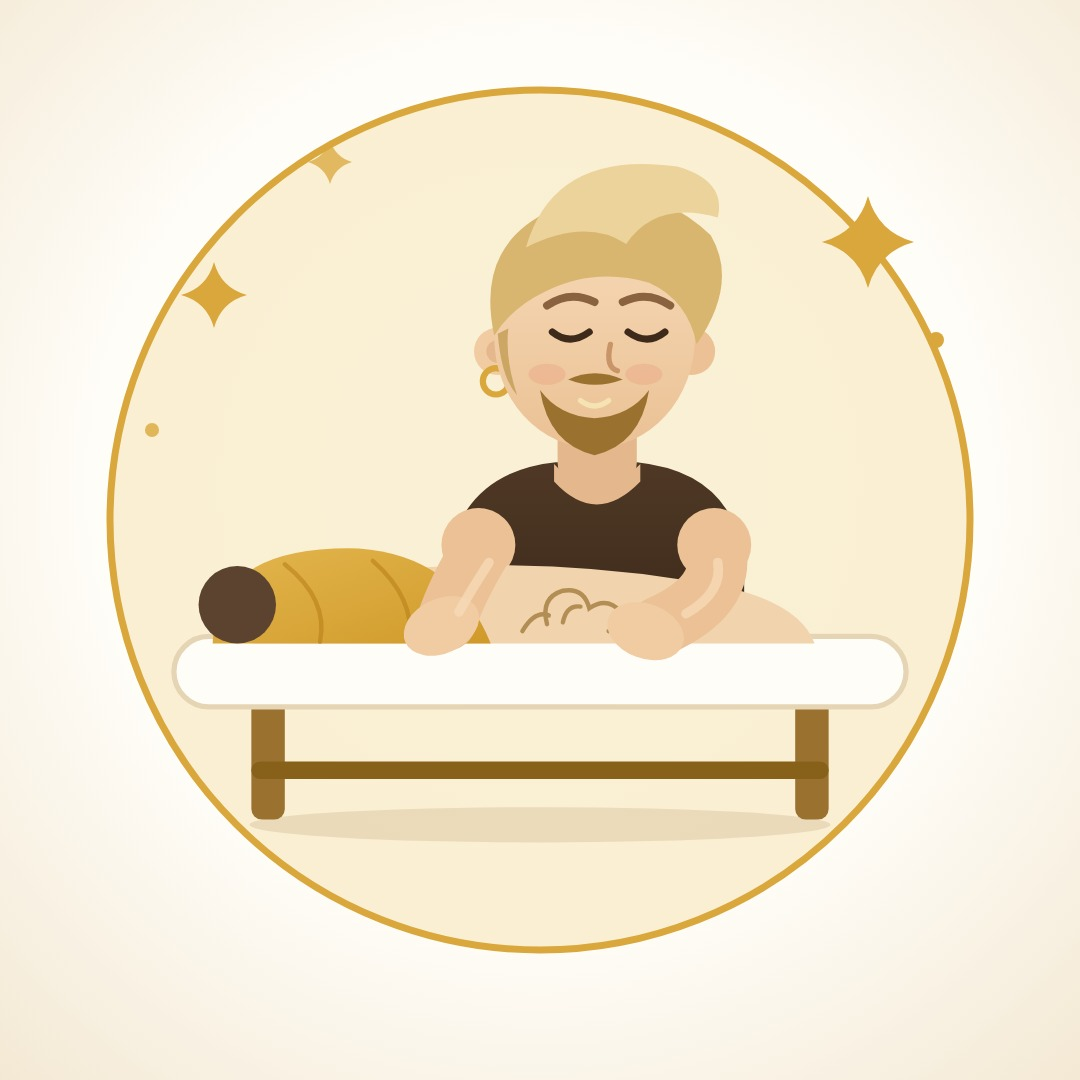
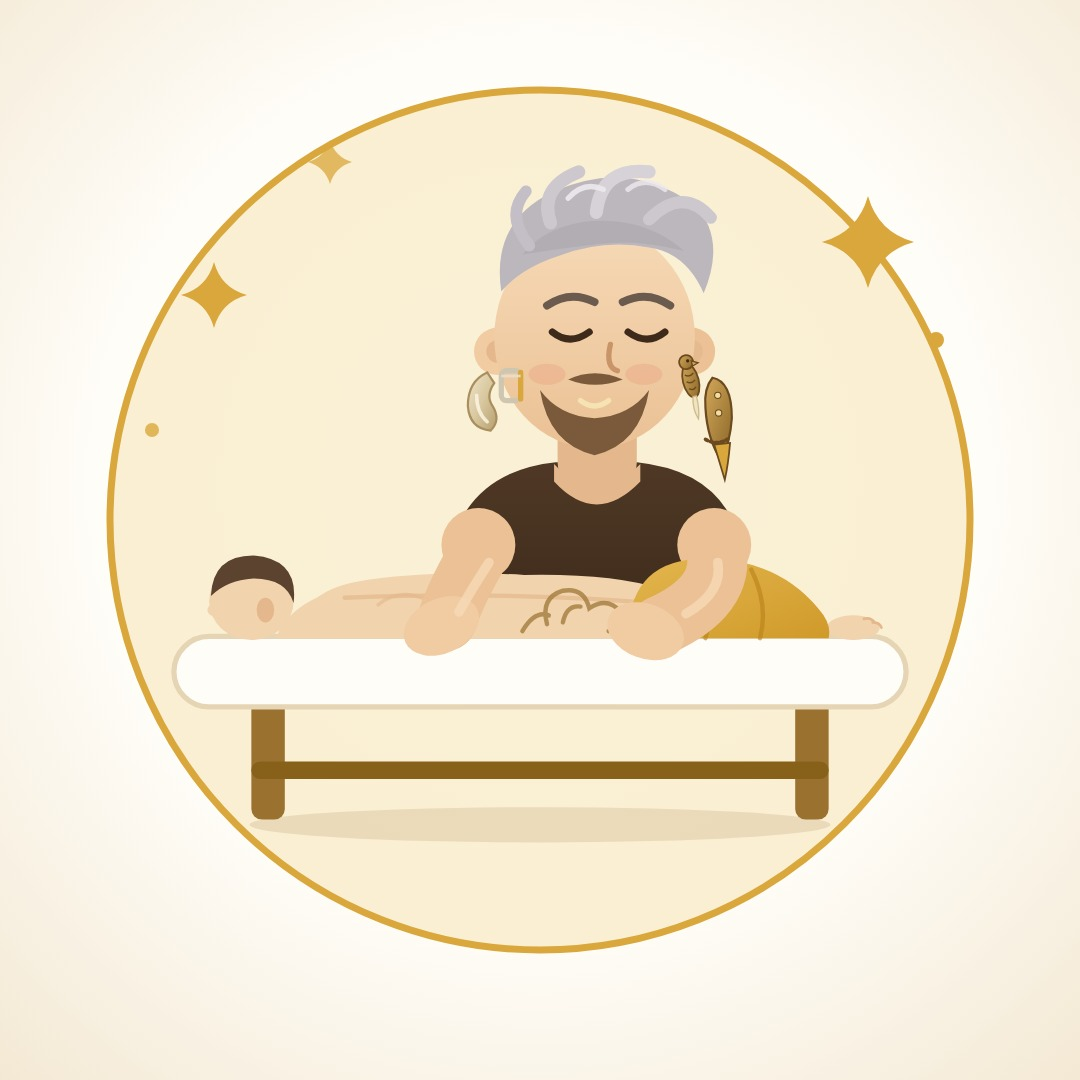
Illustration émoji : boucles d'oreilles détaillées, cheveux gris courts sur les côtés, client plus réaliste
Claude-Session: https://claude.ai/code/session_01FhKW6d7NffjTyYvYf6zG3G

diff --git a/graphisme/sources/66-emoji-masseur.html b/graphisme/sources/66-emoji-masseur.html
@@ -42,31 +42,29 @@ body{width:var(--w);height:var(--h);overflow:hidden;background:var(--creme);colo
   <!-- Palette du site : crème #fffdf8, sable #f3e8d3, or #d9a73b, or clair #f6e3b4, brun #3d2a1b, brun logo #9a712f -->
   <defs>
     <radialGradient id="fond" cx="50%" cy="45%" r="75%">
-      <stop offset="0" stop-color="#ffffff"/>
-      <stop offset=".55" stop-color="#fffdf8"/>
-      <stop offset="1" stop-color="#f3e8d3"/>
+      <stop offset="0" stop-color="#ffffff"/><stop offset=".55" stop-color="#fffdf8"/><stop offset="1" stop-color="#f3e8d3"/>
     </radialGradient>
     <linearGradient id="peau" x1="0" y1="0" x2="0" y2="1">
-      <stop offset="0" stop-color="#f6d9b6"/>
-      <stop offset="1" stop-color="#ebc195"/>
+      <stop offset="0" stop-color="#f6d9b6"/><stop offset="1" stop-color="#ebc195"/>
     </linearGradient>
     <linearGradient id="serviette" x1="0" y1="0" x2="1" y2="1">
-      <stop offset="0" stop-color="#e3b64e"/>
-      <stop offset="1" stop-color="#d09a2a"/>
+      <stop offset="0" stop-color="#e3b64e"/><stop offset="1" stop-color="#d09a2a"/>
     </linearGradient>
     <linearGradient id="debardeur" x1="0" y1="0" x2="0" y2="1">
-      <stop offset="0" stop-color="#4f3825"/>
-      <stop offset="1" stop-color="#3d2a1b"/>
+      <stop offset="0" stop-color="#4f3825"/><stop offset="1" stop-color="#3d2a1b"/>
+    </linearGradient>
+    <linearGradient id="champagne" x1="0" y1="0" x2="1" y2="1">
+      <stop offset="0" stop-color="#f1e6cc"/><stop offset=".5" stop-color="#d9c8a0"/><stop offset="1" stop-color="#b79f6f"/>
+    </linearGradient>
+    <linearGradient id="bronze" x1="0" y1="0" x2="1" y2="1">
+      <stop offset="0" stop-color="#d2a85a"/><stop offset="1" stop-color="#8a6527"/>
     </linearGradient>
   </defs>
 
   <rect width="1080" height="1080" fill="url(#fond)"/>
-
-  <!-- halo doré, comme les couvertures à la une -->
   <circle cx="540" cy="520" r="430" fill="#f6e3b4" opacity=".55"/>
   <circle cx="540" cy="520" r="430" fill="none" stroke="#d9a73b" stroke-width="7"/>
 
-  <!-- étincelles dorées -->
   <g fill="#d9a73b">
     <path d="M868 196 q10 36 46 46 q-36 10 -46 46 q-10 -36 -46 -46 q36 -10 46 -46z"/>
     <path d="M214 262 q7 26 33 33 q-26 7 -33 33 q-7 -26 -33 -33 q26 -7 33 -33z"/>
@@ -74,8 +72,7 @@ body{width:var(--w);height:var(--h);overflow:hidden;background:var(--creme);colo
     <circle cx="936" cy="340" r="8"/><circle cx="152" cy="430" r="7" opacity=".8"/>
   </g>
 
-  <!-- ombre au sol -->
-  <g transform="translate(540 552) scale(.88) translate(-540 -552)">
+<g transform="translate(540 552) scale(.88) translate(-540 -552)">
   <ellipse cx="540" cy="862" rx="330" ry="20" fill="#9a712f" opacity=".16"/>
 
   <!-- MASSEUR (derrière la table) -->
@@ -85,32 +82,64 @@ body{width:var(--w);height:var(--h);overflow:hidden;background:var(--creme);colo
     <circle cx="738" cy="544" r="42" fill="#ebc195"/>
     <rect x="560" y="392" width="90" height="90" rx="32" fill="#e4b88c"/>
     <path d="M556 452 Q604 504 654 452 L654 472 Q604 524 556 472Z" fill="#e4b88c"/>
-    <!-- oreilles + boucle dorée -->
-    <circle cx="492" cy="324" r="27" fill="#f1cca3"/>
-    <circle cx="492" cy="324" r="13" fill="#e4b88c"/>
-    <circle cx="712" cy="324" r="27" fill="#ebc195"/>
-    <circle cx="490" cy="358" r="15" fill="none" stroke="#d9a73b" stroke-width="7"/>
+    <!-- oreilles -->
+    <circle cx="492" cy="324" r="27" fill="#f1cca3"/><circle cx="492" cy="324" r="13" fill="#e4b88c"/>
+    <circle cx="712" cy="324" r="27" fill="#ebc195"/><circle cx="712" cy="324" r="13" fill="#e4b88c" opacity=".8"/>
     <!-- visage -->
     <ellipse cx="602" cy="308" rx="114" ry="126" fill="url(#peau)"/>
-    <!-- cheveux blond cendré, mèche relevée -->
-    <path d="M488 306 Q466 204 552 164 Q654 116 734 192 Q766 246 718 316 Q708 266 664 246 Q602 228 546 256 Q508 274 488 306Z" fill="#d9b66f"/>
-    <path d="M524 206 Q556 94 696 114 Q752 130 742 172 Q672 152 638 202 Q592 172 524 206Z" fill="#ecd39b"/>
-    <path d="M492 304 Q496 354 514 374 Q500 332 504 298Z" fill="#c29c54" opacity=".8"/>
+
+    <!-- cheveux gris argenté : côtés très courts, dessus plus long, balayé et texturé -->
+    <path d="M496 256 Q484 176 556 142 Q642 104 716 158 Q752 196 726 258 Q706 212 664 206 Q612 196 560 216 Q518 230 496 256Z" fill="#bcb7bd"/>
+    <path d="M520 214 Q548 180 600 176 Q660 172 704 210 Q650 196 606 202 Q556 208 520 214Z" fill="#a9a4ab" opacity=".55"/>
+    <g fill="none" stroke-linecap="round">
+      <path d="M552 178 Q538 138 584 120" stroke="#cdc8ce" stroke-width="15"/>
+      <path d="M604 166 Q610 114 664 120" stroke="#d6d2d8" stroke-width="15"/>
+      <path d="M664 174 Q702 136 734 172" stroke="#cdc8ce" stroke-width="14"/>
+      <path d="M528 204 Q500 170 524 142" stroke="#c4bfc6" stroke-width="13"/>
+      <path d="M572 150 Q590 130 612 140" stroke="#ece9ee" stroke-width="6" opacity=".9"/>
+      <path d="M640 140 Q660 124 682 140" stroke="#ece9ee" stroke-width="6" opacity=".8"/>
+    </g>
+
     <!-- sourcils -->
-    <path d="M548 272 Q574 254 602 268" stroke="#8a6240" stroke-width="9" fill="none" stroke-linecap="round"/>
-    <path d="M634 268 Q662 254 688 272" stroke="#8a6240" stroke-width="9" fill="none" stroke-linecap="round"/>
-    <!-- yeux baissés, concentré et serein -->
+    <path d="M548 272 Q574 254 602 268" stroke="#6b5a4e" stroke-width="9" fill="none" stroke-linecap="round"/>
+    <path d="M634 268 Q662 254 688 272" stroke="#6b5a4e" stroke-width="9" fill="none" stroke-linecap="round"/>
+    <!-- yeux baissés -->
     <path d="M554 302 Q574 318 596 302" stroke="#3d2a1b" stroke-width="8" fill="none" stroke-linecap="round"/>
     <path d="M640 302 Q662 318 682 302" stroke="#3d2a1b" stroke-width="8" fill="none" stroke-linecap="round"/>
-    <!-- joues -->
     <ellipse cx="548" cy="350" rx="21" ry="12" fill="#e9a283" opacity=".4"/>
     <ellipse cx="658" cy="350" rx="21" ry="12" fill="#e9a283" opacity=".4"/>
-    <!-- nez -->
     <path d="M620 316 Q614 342 628 346" stroke="#c99468" stroke-width="6" fill="none" stroke-linecap="round"/>
     <!-- barbe courte -->
-    <path d="M540 368 Q550 430 602 442 Q654 430 664 368 Q642 398 602 400 Q562 398 540 368Z" fill="#9a712f"/>
-    <path d="M572 356 Q602 342 634 356 Q602 368 572 356Z" fill="#9a712f"/>
+    <path d="M540 368 Q550 430 602 442 Q654 430 664 368 Q642 398 602 400 Q562 398 540 368Z" fill="#7a5a3a"/>
+    <path d="M572 356 Q602 342 634 356 Q602 368 572 356Z" fill="#7a5a3a"/>
     <path d="M586 380 Q602 392 618 380" stroke="#f6e3b4" stroke-width="6" fill="none" stroke-linecap="round"/>
+
+    <!-- BOUCLES D'OREILLES — oreille gauche : gros anneau champagne + petit anneau carré -->
+    <g transform="translate(-4 2)">
+      <rect x="500" y="344" width="22" height="34" rx="6" fill="none" stroke="#cfc6b2" stroke-width="6"/>
+      <path d="M522 346 L522 376" stroke="#d9a73b" stroke-width="6" stroke-linecap="round"/>
+      <path d="M500 350 L522 350" stroke="#e8e0cf" stroke-width="3" opacity=".9"/>
+      <path d="M484 346 Q462 356 462 384 Q464 410 488 412 Q500 400 490 384 Q482 372 492 358Z" fill="url(#champagne)" stroke="#a98f5f" stroke-width="2.5"/>
+      <path d="M472 372 Q472 392 484 402" stroke="#fbf5e3" stroke-width="4" fill="none" stroke-linecap="round" opacity=".85"/>
+    </g>
+    <!-- oreille droite : perroquet en bronze + griffe à pointes -->
+    <g transform="translate(14 4)">
+      <!-- perroquet -->
+      <g transform="translate(694 340) rotate(-14)">
+        <ellipse cx="0" cy="14" rx="9" ry="19" fill="url(#bronze)" stroke="#6b4a1f" stroke-width="2"/>
+        <circle cx="0" cy="-8" r="8" fill="url(#bronze)" stroke="#6b4a1f" stroke-width="2"/>
+        <circle cx="2" cy="-9" r="1.8" fill="#3d2a1b"/>
+        <path d="M6 -8 L13 -4 L6 -2Z" fill="#d2a85a" stroke="#6b4a1f" stroke-width="1.5"/>
+        <path d="M-5 6 Q0 10 5 6 M-5 14 Q0 18 5 14 M-4 22 Q0 26 4 22" stroke="#6b4a1f" stroke-width="1.6" fill="none"/>
+        <path d="M-2 32 Q-6 46 -2 58 Q2 48 2 32Z" fill="#efe3c2" stroke="#cdbb8e" stroke-width="1.5"/>
+      </g>
+      <!-- griffe -->
+      <path d="M722 350 Q744 354 744 396 Q742 424 732 444 Q716 420 714 384 Q712 362 722 350Z" fill="url(#bronze)" stroke="#6b4a1f" stroke-width="2.5"/>
+      <circle cx="728" cy="370" r="3.6" fill="#f3dca0" stroke="#6b4a1f" stroke-width="1.2"/>
+      <circle cx="729" cy="390" r="3.6" fill="#f3dca0" stroke="#6b4a1f" stroke-width="1.2"/>
+      <path d="M714 420 Q728 428 742 418" stroke="#6b4a1f" stroke-width="4" fill="none" stroke-linecap="round" stroke-dasharray="3 3"/>
+      <path d="M724 426 Q730 446 736 466 Q740 448 742 424Z" fill="#d9a73b" stroke="#6b4a1f" stroke-width="2"/>
+    </g>
   </g>
 
   <!-- pieds de table -->
@@ -121,18 +150,33 @@ body{width:var(--w);height:var(--h);overflow:hidden;background:var(--creme);colo
   <!-- matelas -->
   <rect x="124" y="648" width="832" height="80" rx="40" fill="#fffdf8" stroke="#e6d5b5" stroke-width="6"/>
 
-  <!-- CLIENT allongé -->
+  <!-- CLIENT allongé sur le ventre, plus réaliste -->
   <g>
-    <path d="M214 656 Q232 576 372 572 Q540 558 706 584 Q832 600 852 656 Z" fill="#f1d3ae"/>
+    <!-- pieds -->
+    <ellipse cx="896" cy="638" rx="30" ry="14" fill="#f1d3ae"/>
+    <path d="M918 632 q8 0 10 6 M908 628 q8 -2 12 4" stroke="#e4b88c" stroke-width="3" fill="none" stroke-linecap="round"/>
+    <!-- dos et épaules -->
+    <path d="M262 650 Q268 598 330 586 Q412 572 522 578 Q622 576 678 594 Q724 608 728 650 Z" fill="#f1d3ae"/>
+    <!-- nuque -->
+    <path d="M244 640 Q262 612 296 600 L304 650 L240 650Z" fill="#f1d3ae"/>
+    <!-- tête, cheveux bruns, oreille -->
+    <ellipse cx="212" cy="608" rx="48" ry="44" fill="#f1d3ae"/>
+    <path d="M166 602 Q168 556 214 556 Q266 560 260 610 Q252 582 214 582 Q184 584 166 602Z" fill="#5c4330"/>
+    <ellipse cx="228" cy="618" rx="10" ry="14" fill="#e4b88c"/>
+    <ellipse cx="170" cy="618" rx="8" ry="7" fill="#f1d3ae"/>
+    <!-- relief du dos : colonne et omoplate -->
+    <path d="M318 604 Q520 596 690 612" stroke="#e4b88c" stroke-width="5" fill="none" stroke-linecap="round" opacity=".7"/>
+    <path d="M356 612 Q380 592 410 606" stroke="#e4b88c" stroke-width="4" fill="none" stroke-linecap="round" opacity=".6"/>
+    <!-- tatouage floral -->
     <g stroke="#9a712f" stroke-width="5" fill="none" stroke-linecap="round" opacity=".7">
       <path d="M548 634 Q540 604 566 596 Q590 592 596 616 Q616 602 632 620 Q640 638 618 642"/>
       <path d="M566 632 Q570 612 586 614"/>
       <path d="M520 642 Q534 618 550 624"/>
     </g>
-    <path d="M168 656 Q170 544 334 548 Q444 556 484 656 Z" fill="url(#serviette)"/>
-    <path d="M250 566 Q300 606 290 654" stroke="#b9801a" stroke-width="5" fill="none" stroke-linecap="round" opacity=".6"/>
-    <path d="M350 562 Q398 604 392 654" stroke="#b9801a" stroke-width="5" fill="none" stroke-linecap="round" opacity=".6"/>
-    <circle cx="196" cy="612" r="44" fill="#5c4330"/>
+    <!-- serviette moutarde sur les hanches et les jambes -->
+    <path d="M640 650 Q640 566 716 560 Q806 556 856 616 Q872 634 868 650 Z" fill="url(#serviette)"/>
+    <path d="M716 568 Q740 610 728 650" stroke="#b9801a" stroke-width="5" fill="none" stroke-linecap="round" opacity=".6"/>
+    <path d="M780 572 Q800 612 790 650" stroke="#b9801a" stroke-width="5" fill="none" stroke-linecap="round" opacity=".6"/>
   </g>
 
   <!-- BRAS du masseur : les mains posent sur le dos -->

diff --git a/graphisme/sources/67-emoji-masseur-logo.html b/graphisme/sources/67-emoji-masseur-logo.html
@@ -45,31 +45,29 @@ body{width:var(--w);height:var(--h);overflow:hidden;background:var(--creme);colo
   <!-- Palette du site : crème #fffdf8, sable #f3e8d3, or #d9a73b, or clair #f6e3b4, brun #3d2a1b, brun logo #9a712f -->
   <defs>
     <radialGradient id="fond" cx="50%" cy="45%" r="75%">
-      <stop offset="0" stop-color="#ffffff"/>
-      <stop offset=".55" stop-color="#fffdf8"/>
-      <stop offset="1" stop-color="#f3e8d3"/>
+      <stop offset="0" stop-color="#ffffff"/><stop offset=".55" stop-color="#fffdf8"/><stop offset="1" stop-color="#f3e8d3"/>
     </radialGradient>
     <linearGradient id="peau" x1="0" y1="0" x2="0" y2="1">
-      <stop offset="0" stop-color="#f6d9b6"/>
-      <stop offset="1" stop-color="#ebc195"/>
+      <stop offset="0" stop-color="#f6d9b6"/><stop offset="1" stop-color="#ebc195"/>
     </linearGradient>
     <linearGradient id="serviette" x1="0" y1="0" x2="1" y2="1">
-      <stop offset="0" stop-color="#e3b64e"/>
-      <stop offset="1" stop-color="#d09a2a"/>
+      <stop offset="0" stop-color="#e3b64e"/><stop offset="1" stop-color="#d09a2a"/>
     </linearGradient>
     <linearGradient id="debardeur" x1="0" y1="0" x2="0" y2="1">
-      <stop offset="0" stop-color="#4f3825"/>
-      <stop offset="1" stop-color="#3d2a1b"/>
+      <stop offset="0" stop-color="#4f3825"/><stop offset="1" stop-color="#3d2a1b"/>
+    </linearGradient>
+    <linearGradient id="champagne" x1="0" y1="0" x2="1" y2="1">
+      <stop offset="0" stop-color="#f1e6cc"/><stop offset=".5" stop-color="#d9c8a0"/><stop offset="1" stop-color="#b79f6f"/>
+    </linearGradient>
+    <linearGradient id="bronze" x1="0" y1="0" x2="1" y2="1">
+      <stop offset="0" stop-color="#d2a85a"/><stop offset="1" stop-color="#8a6527"/>
     </linearGradient>
   </defs>
 
   
-
-  <!-- halo doré, comme les couvertures à la une -->
   <circle cx="540" cy="520" r="430" fill="#f6e3b4" opacity=".55"/>
   <circle cx="540" cy="520" r="430" fill="none" stroke="#d9a73b" stroke-width="7"/>
 
-  <!-- étincelles dorées -->
   <g fill="#d9a73b">
     <path d="M868 196 q10 36 46 46 q-36 10 -46 46 q-10 -36 -46 -46 q36 -10 46 -46z"/>
     <path d="M214 262 q7 26 33 33 q-26 7 -33 33 q-7 -26 -33 -33 q26 -7 33 -33z"/>
@@ -77,8 +75,7 @@ body{width:var(--w);height:var(--h);overflow:hidden;background:var(--creme);colo
     <circle cx="936" cy="340" r="8"/><circle cx="152" cy="430" r="7" opacity=".8"/>
   </g>
 
-  <!-- ombre au sol -->
-  <g transform="translate(540 552) scale(.88) translate(-540 -552)">
+<g transform="translate(540 552) scale(.88) translate(-540 -552)">
   <ellipse cx="540" cy="862" rx="330" ry="20" fill="#9a712f" opacity=".16"/>
 
   <!-- MASSEUR (derrière la table) -->
@@ -88,32 +85,64 @@ body{width:var(--w);height:var(--h);overflow:hidden;background:var(--creme);colo
     <circle cx="738" cy="544" r="42" fill="#ebc195"/>
     <rect x="560" y="392" width="90" height="90" rx="32" fill="#e4b88c"/>
     <path d="M556 452 Q604 504 654 452 L654 472 Q604 524 556 472Z" fill="#e4b88c"/>
-    <!-- oreilles + boucle dorée -->
-    <circle cx="492" cy="324" r="27" fill="#f1cca3"/>
-    <circle cx="492" cy="324" r="13" fill="#e4b88c"/>
-    <circle cx="712" cy="324" r="27" fill="#ebc195"/>
-    <circle cx="490" cy="358" r="15" fill="none" stroke="#d9a73b" stroke-width="7"/>
+    <!-- oreilles -->
+    <circle cx="492" cy="324" r="27" fill="#f1cca3"/><circle cx="492" cy="324" r="13" fill="#e4b88c"/>
+    <circle cx="712" cy="324" r="27" fill="#ebc195"/><circle cx="712" cy="324" r="13" fill="#e4b88c" opacity=".8"/>
     <!-- visage -->
     <ellipse cx="602" cy="308" rx="114" ry="126" fill="url(#peau)"/>
-    <!-- cheveux blond cendré, mèche relevée -->
-    <path d="M488 306 Q466 204 552 164 Q654 116 734 192 Q766 246 718 316 Q708 266 664 246 Q602 228 546 256 Q508 274 488 306Z" fill="#d9b66f"/>
-    <path d="M524 206 Q556 94 696 114 Q752 130 742 172 Q672 152 638 202 Q592 172 524 206Z" fill="#ecd39b"/>
-    <path d="M492 304 Q496 354 514 374 Q500 332 504 298Z" fill="#c29c54" opacity=".8"/>
+
+    <!-- cheveux gris argenté : côtés très courts, dessus plus long, balayé et texturé -->
+    <path d="M496 256 Q484 176 556 142 Q642 104 716 158 Q752 196 726 258 Q706 212 664 206 Q612 196 560 216 Q518 230 496 256Z" fill="#bcb7bd"/>
+    <path d="M520 214 Q548 180 600 176 Q660 172 704 210 Q650 196 606 202 Q556 208 520 214Z" fill="#a9a4ab" opacity=".55"/>
+    <g fill="none" stroke-linecap="round">
+      <path d="M552 178 Q538 138 584 120" stroke="#cdc8ce" stroke-width="15"/>
+      <path d="M604 166 Q610 114 664 120" stroke="#d6d2d8" stroke-width="15"/>
+      <path d="M664 174 Q702 136 734 172" stroke="#cdc8ce" stroke-width="14"/>
+      <path d="M528 204 Q500 170 524 142" stroke="#c4bfc6" stroke-width="13"/>
+      <path d="M572 150 Q590 130 612 140" stroke="#ece9ee" stroke-width="6" opacity=".9"/>
+      <path d="M640 140 Q660 124 682 140" stroke="#ece9ee" stroke-width="6" opacity=".8"/>
+    </g>
+
     <!-- sourcils -->
-    <path d="M548 272 Q574 254 602 268" stroke="#8a6240" stroke-width="9" fill="none" stroke-linecap="round"/>
-    <path d="M634 268 Q662 254 688 272" stroke="#8a6240" stroke-width="9" fill="none" stroke-linecap="round"/>
-    <!-- yeux baissés, concentré et serein -->
+    <path d="M548 272 Q574 254 602 268" stroke="#6b5a4e" stroke-width="9" fill="none" stroke-linecap="round"/>
+    <path d="M634 268 Q662 254 688 272" stroke="#6b5a4e" stroke-width="9" fill="none" stroke-linecap="round"/>
+    <!-- yeux baissés -->
     <path d="M554 302 Q574 318 596 302" stroke="#3d2a1b" stroke-width="8" fill="none" stroke-linecap="round"/>
     <path d="M640 302 Q662 318 682 302" stroke="#3d2a1b" stroke-width="8" fill="none" stroke-linecap="round"/>
-    <!-- joues -->
     <ellipse cx="548" cy="350" rx="21" ry="12" fill="#e9a283" opacity=".4"/>
     <ellipse cx="658" cy="350" rx="21" ry="12" fill="#e9a283" opacity=".4"/>
-    <!-- nez -->
     <path d="M620 316 Q614 342 628 346" stroke="#c99468" stroke-width="6" fill="none" stroke-linecap="round"/>
     <!-- barbe courte -->
-    <path d="M540 368 Q550 430 602 442 Q654 430 664 368 Q642 398 602 400 Q562 398 540 368Z" fill="#9a712f"/>
-    <path d="M572 356 Q602 342 634 356 Q602 368 572 356Z" fill="#9a712f"/>
+    <path d="M540 368 Q550 430 602 442 Q654 430 664 368 Q642 398 602 400 Q562 398 540 368Z" fill="#7a5a3a"/>
+    <path d="M572 356 Q602 342 634 356 Q602 368 572 356Z" fill="#7a5a3a"/>
     <path d="M586 380 Q602 392 618 380" stroke="#f6e3b4" stroke-width="6" fill="none" stroke-linecap="round"/>
+
+    <!-- BOUCLES D'OREILLES — oreille gauche : gros anneau champagne + petit anneau carré -->
+    <g transform="translate(-4 2)">
+      <rect x="500" y="344" width="22" height="34" rx="6" fill="none" stroke="#cfc6b2" stroke-width="6"/>
+      <path d="M522 346 L522 376" stroke="#d9a73b" stroke-width="6" stroke-linecap="round"/>
+      <path d="M500 350 L522 350" stroke="#e8e0cf" stroke-width="3" opacity=".9"/>
+      <path d="M484 346 Q462 356 462 384 Q464 410 488 412 Q500 400 490 384 Q482 372 492 358Z" fill="url(#champagne)" stroke="#a98f5f" stroke-width="2.5"/>
+      <path d="M472 372 Q472 392 484 402" stroke="#fbf5e3" stroke-width="4" fill="none" stroke-linecap="round" opacity=".85"/>
+    </g>
+    <!-- oreille droite : perroquet en bronze + griffe à pointes -->
+    <g transform="translate(14 4)">
+      <!-- perroquet -->
+      <g transform="translate(694 340) rotate(-14)">
+        <ellipse cx="0" cy="14" rx="9" ry="19" fill="url(#bronze)" stroke="#6b4a1f" stroke-width="2"/>
+        <circle cx="0" cy="-8" r="8" fill="url(#bronze)" stroke="#6b4a1f" stroke-width="2"/>
+        <circle cx="2" cy="-9" r="1.8" fill="#3d2a1b"/>
+        <path d="M6 -8 L13 -4 L6 -2Z" fill="#d2a85a" stroke="#6b4a1f" stroke-width="1.5"/>
+        <path d="M-5 6 Q0 10 5 6 M-5 14 Q0 18 5 14 M-4 22 Q0 26 4 22" stroke="#6b4a1f" stroke-width="1.6" fill="none"/>
+        <path d="M-2 32 Q-6 46 -2 58 Q2 48 2 32Z" fill="#efe3c2" stroke="#cdbb8e" stroke-width="1.5"/>
+      </g>
+      <!-- griffe -->
+      <path d="M722 350 Q744 354 744 396 Q742 424 732 444 Q716 420 714 384 Q712 362 722 350Z" fill="url(#bronze)" stroke="#6b4a1f" stroke-width="2.5"/>
+      <circle cx="728" cy="370" r="3.6" fill="#f3dca0" stroke="#6b4a1f" stroke-width="1.2"/>
+      <circle cx="729" cy="390" r="3.6" fill="#f3dca0" stroke="#6b4a1f" stroke-width="1.2"/>
+      <path d="M714 420 Q728 428 742 418" stroke="#6b4a1f" stroke-width="4" fill="none" stroke-linecap="round" stroke-dasharray="3 3"/>
+      <path d="M724 426 Q730 446 736 466 Q740 448 742 424Z" fill="#d9a73b" stroke="#6b4a1f" stroke-width="2"/>
+    </g>
   </g>
 
   <!-- pieds de table -->
@@ -124,18 +153,33 @@ body{width:var(--w);height:var(--h);overflow:hidden;background:var(--creme);colo
   <!-- matelas -->
   <rect x="124" y="648" width="832" height="80" rx="40" fill="#fffdf8" stroke="#e6d5b5" stroke-width="6"/>
 
-  <!-- CLIENT allongé -->
+  <!-- CLIENT allongé sur le ventre, plus réaliste -->
   <g>
-    <path d="M214 656 Q232 576 372 572 Q540 558 706 584 Q832 600 852 656 Z" fill="#f1d3ae"/>
+    <!-- pieds -->
+    <ellipse cx="896" cy="638" rx="30" ry="14" fill="#f1d3ae"/>
+    <path d="M918 632 q8 0 10 6 M908 628 q8 -2 12 4" stroke="#e4b88c" stroke-width="3" fill="none" stroke-linecap="round"/>
+    <!-- dos et épaules -->
+    <path d="M262 650 Q268 598 330 586 Q412 572 522 578 Q622 576 678 594 Q724 608 728 650 Z" fill="#f1d3ae"/>
+    <!-- nuque -->
+    <path d="M244 640 Q262 612 296 600 L304 650 L240 650Z" fill="#f1d3ae"/>
+    <!-- tête, cheveux bruns, oreille -->
+    <ellipse cx="212" cy="608" rx="48" ry="44" fill="#f1d3ae"/>
+    <path d="M166 602 Q168 556 214 556 Q266 560 260 610 Q252 582 214 582 Q184 584 166 602Z" fill="#5c4330"/>
+    <ellipse cx="228" cy="618" rx="10" ry="14" fill="#e4b88c"/>
+    <ellipse cx="170" cy="618" rx="8" ry="7" fill="#f1d3ae"/>
+    <!-- relief du dos : colonne et omoplate -->
+    <path d="M318 604 Q520 596 690 612" stroke="#e4b88c" stroke-width="5" fill="none" stroke-linecap="round" opacity=".7"/>
+    <path d="M356 612 Q380 592 410 606" stroke="#e4b88c" stroke-width="4" fill="none" stroke-linecap="round" opacity=".6"/>
+    <!-- tatouage floral -->
     <g stroke="#9a712f" stroke-width="5" fill="none" stroke-linecap="round" opacity=".7">
       <path d="M548 634 Q540 604 566 596 Q590 592 596 616 Q616 602 632 620 Q640 638 618 642"/>
       <path d="M566 632 Q570 612 586 614"/>
       <path d="M520 642 Q534 618 550 624"/>
     </g>
-    <path d="M168 656 Q170 544 334 548 Q444 556 484 656 Z" fill="url(#serviette)"/>
-    <path d="M250 566 Q300 606 290 654" stroke="#b9801a" stroke-width="5" fill="none" stroke-linecap="round" opacity=".6"/>
-    <path d="M350 562 Q398 604 392 654" stroke="#b9801a" stroke-width="5" fill="none" stroke-linecap="round" opacity=".6"/>
-    <circle cx="196" cy="612" r="44" fill="#5c4330"/>
+    <!-- serviette moutarde sur les hanches et les jambes -->
+    <path d="M640 650 Q640 566 716 560 Q806 556 856 616 Q872 634 868 650 Z" fill="url(#serviette)"/>
+    <path d="M716 568 Q740 610 728 650" stroke="#b9801a" stroke-width="5" fill="none" stroke-linecap="round" opacity=".6"/>
+    <path d="M780 572 Q800 612 790 650" stroke="#b9801a" stroke-width="5" fill="none" stroke-linecap="round" opacity=".6"/>
   </g>
 
   <!-- BRAS du masseur : les mains posent sur le dos -->
